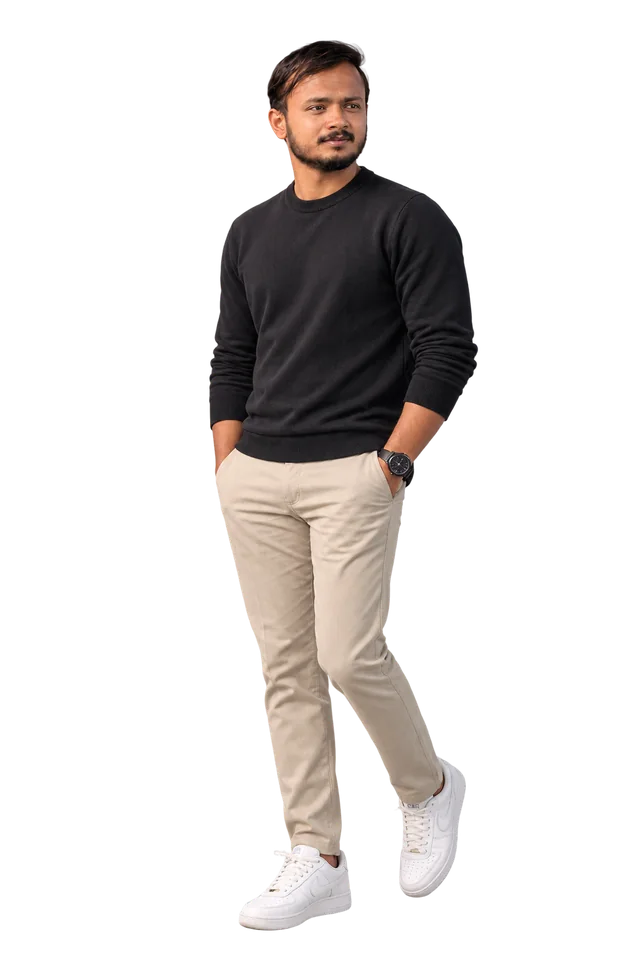
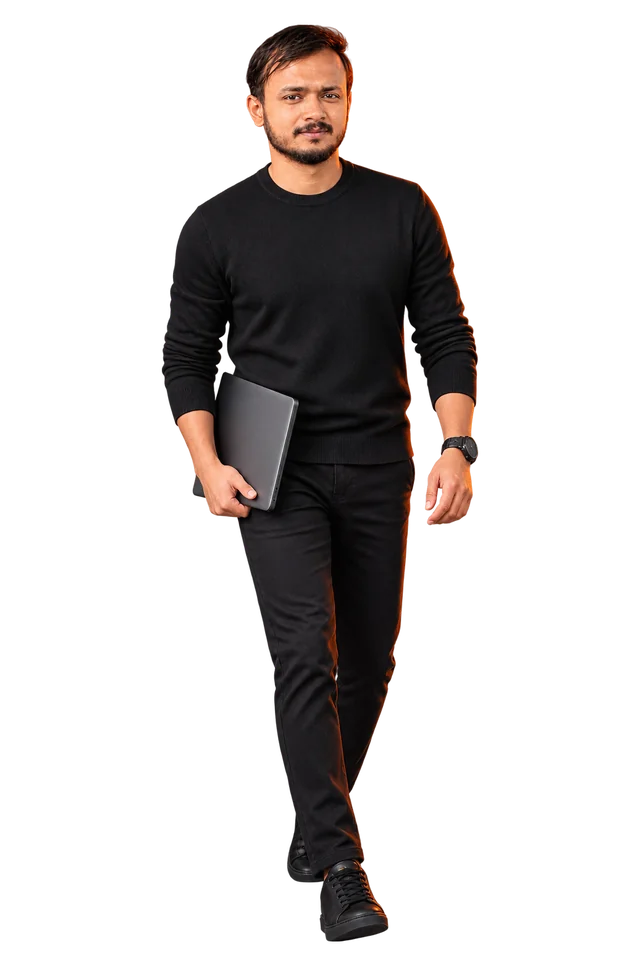
version7

Changed region(s): [[0.25, 0.0, 0.75, 1.0]]

diff --git a/style.css b/style.css
@@ -162,7 +162,7 @@ body::before {
   height: 86%; aspect-ratio: 2 / 3;
 }
 .portrait-img, .particles { position: absolute; inset: 0; width: 100%; height: 100%; }
-.portrait-img { object-fit: contain; object-position: bottom; filter: grayscale(1) contrast(1.08) brightness(.96); transition: opacity .8s var(--ease); }
+.portrait-img { object-fit: contain; object-position: bottom; transition: opacity .8s var(--ease); }
 .particles { opacity: 0; transition: opacity .6s; }
 .has-particles .particles { opacity: 1; }
 .has-particles .portrait-img { opacity: 0; }
@@ -226,8 +226,8 @@ body::before {
   background: radial-gradient(70% 50% at 50% 55%, rgba(255, 74, 28, .28), rgba(255, 74, 28, 0) 70%), var(--card);
   border: 1px solid var(--line); aspect-ratio: 3 / 4;
 }
-.about-photo img { position: absolute; inset: 4% 0 0; width: 100%; height: 100%; object-fit: cover; object-position: top; filter: grayscale(1) contrast(1.1); transition: transform 1.2s var(--ease), filter .8s; }
-.about-photo:hover img { transform: scale(1.04); filter: grayscale(.2) contrast(1.05); }
+.about-photo img { position: absolute; inset: 4% 0 0; width: 100%; height: 100%; object-fit: cover; object-position: top; transition: transform 1.2s var(--ease); }
+.about-photo:hover img { transform: scale(1.04); }
 .about-photo figcaption { position: absolute; left: 14px; right: 14px; bottom: 14px; padding: 14px 16px; border-radius: 16px; background: rgba(7, 7, 8, .72); backdrop-filter: blur(10px); font-size: .9rem; color: var(--text-2); }
 .about-photo figcaption em { font-family: var(--serif); font-size: 1.15rem; color: var(--ember); }
 
@@ -347,7 +347,8 @@ body::before {
 /* ---------- Experience ---------- */
 .exp { display: grid; grid-template-columns: minmax(0, .7fr) minmax(0, 1.3fr); gap: clamp(32px, 6vw, 96px); align-items: start; }
 .exp-photo { position: sticky; top: 110px; border-radius: 28px; overflow: hidden; aspect-ratio: 3 / 4; background: radial-gradient(70% 50% at 50% 60%, rgba(255, 74, 28, .22), transparent 70%), var(--card); border: 1px solid var(--line); }
-.exp-photo img { width: 100%; height: 108%; object-fit: cover; object-position: top; filter: grayscale(1) contrast(1.1); }
+.exp-photo img { width: 100%; height: 104%; object-fit: cover; object-position: top; transition: transform 1.2s var(--ease); }
+.exp-photo:hover img { transform: scale(1.03); }
 .exp-list { margin-top: 44px; border-top: 1px solid var(--line); }
 .exp-list li { display: grid; grid-template-columns: 170px 1fr; gap: 24px; padding: 28px 0; border-bottom: 1px solid var(--line); }
 .exp-when { font-family: var(--serif); font-style: italic; font-size: 1.25rem; color: var(--ember); line-height: 1.3; }
@@ -446,8 +447,8 @@ body::before {
 .avail { display: inline-flex; align-items: center; gap: 8px; padding: 6px 12px; border-radius: 999px; background: rgba(61, 220, 151, .1); color: var(--ok); font-weight: 650; }
 .clock { color: var(--muted); font-variant-numeric: tabular-nums; }
 .clock span { color: var(--text); font-weight: 650; }
-.contact-photo { width: 78%; margin: 14px auto 0; filter: grayscale(1) contrast(1.1); transition: filter .8s, transform 1s var(--ease); }
-.contact-card:hover .contact-photo { filter: grayscale(0) contrast(1.02); transform: scale(1.02); }
+.contact-photo { width: 78%; margin: 14px auto 0; transition: transform 1s var(--ease); }
+.contact-card:hover .contact-photo { transform: scale(1.03) rotate(-1deg); }
 .contact-facts { margin-top: auto; display: grid; grid-template-columns: repeat(3, 1fr); border-top: 1px solid var(--line); background: rgba(7, 7, 8, .6); backdrop-filter: blur(8px); }
 .contact-facts div { padding: 16px 18px; }
 .contact-facts div + div { border-left: 1px solid var(--line); }

diff --git a/index.html b/index.html
@@ -68,7 +68,7 @@
 
       <div class="portrait">
         <canvas class="particles" aria-hidden="true"></canvas>
-        <img class="portrait-img" src="assets/img/about.webp" alt="Pruthvi P R in a navy suit, hand on chin" width="720" height="1080" />
+        <img class="portrait-img" src="assets/img/about.webp" alt="Pruthvi P R in a black blazer, hand on chin" width="720" height="1080" />
       </div>
 
       <div class="hero-left">
@@ -126,7 +126,7 @@
       </div>
 
       <figure class="about-photo">
-        <img src="assets/img/approach.webp" alt="Pruthvi standing with arms crossed" width="640" height="960" loading="lazy" />
+        <img src="assets/img/approach.webp" alt="Pruthvi in a black overshirt, arms crossed" width="640" height="960" loading="lazy" />
         <figcaption><em>Looking for</em> an international team, on-site with visa sponsorship or remote.</figcaption>
       </figure>
     </section>
@@ -230,7 +230,7 @@
         </article>
 
         <!-- 2 -->
-        <!-- <article class="proj">
+        <article class="proj">
           <div class="proj-copy">
             <p class="proj-meta"><span>Client project at Provab</span><span>2025–26</span></p>
             <h3>Corporate portal with single sign-on</h3>
@@ -256,7 +256,7 @@
               <span class="sso-ok">Already signed in</span>
             </div>
           </div>
-        </article> -->
+        </article>
 
         <!-- 3 -->
         <article class="proj">
@@ -318,7 +318,7 @@
     <!-- ===== Experience ===== -->
     <section class="section exp" id="experience">
       <div class="exp-photo">
-        <img src="assets/img/experience.webp" alt="Pruthvi walking" width="640" height="960" loading="lazy" />
+        <img src="assets/img/experience.webp" alt="Pruthvi walking with a laptop" width="640" height="960" loading="lazy" />
       </div>
 
       <div class="exp-body">
@@ -412,12 +412,12 @@
                 <span class="link-text"><b>GitHub</b><small>Pruthvi-Dev1</small></span>
               </a>
             </li>
-            <!-- <li>
+            <li>
               <a class="link-card" href="tel:+918971683419">
                 <span class="link-icon"><svg viewBox="0 0 24 24"><path d="M5 4h4l2 5-2.5 1.5a11 11 0 0 0 5 5L15 13l5 2v4a2 2 0 0 1-2 2A16 16 0 0 1 3 6a2 2 0 0 1 2-2" /></svg></span>
                 <span class="link-text"><b>Phone</b><small>+91 89716 83419</small></span>
               </a>
-            </li> -->
+            </li>
           </ul>
         </div>
 
@@ -426,7 +426,7 @@
             <span class="avail"><span class="live-dot"></span>Available for new roles</span>
             <span class="clock"><span id="local-time">--:--</span> in Bengaluru</span>
           </div>
-          <img class="contact-photo" src="assets/img/standing.webp" alt="Pruthvi standing in an olive overshirt" width="640" height="960" loading="lazy" />
+          <img class="contact-photo" src="assets/img/standing.webp" alt="Pruthvi waving hello" width="640" height="960" loading="lazy" />
           <dl class="contact-facts">
             <div><dt>Role</dt><dd>Full-stack developer</dd></div>
             <div><dt>Open to</dt><dd>Relocation or remote</dd></div>

diff --git a/index.js b/index.js
@@ -188,9 +188,11 @@
           const i = (y * W + x) * 4;
           const a = data[i + 3];
           if (a < 120) continue;
-          let lum = (0.3 * data[i] + 0.59 * data[i + 1] + 0.11 * data[i + 2]) / 255;
-          lum = Math.min(1, Math.pow(lum, 0.85) * 1.12);
-          if (lum < 0.06) continue;
+          const R0 = data[i], G0 = data[i + 1], B0 = data[i + 2];
+          let lum = (0.3 * R0 + 0.59 * G0 + 0.11 * B0) / 255;
+          // lift the shadows so black clothing still shows as dim particles
+          lum = Math.min(1, 0.1 + Math.pow(lum, 0.75));
+          const isRim = R0 > 150 && G0 < R0 * 0.56 && B0 < R0 * 0.36; // saturated orange rim light, not skin
           const angle = Math.random() * Math.PI * 2;
           const dist = 200 + Math.random() * Math.max(W, H);
           particles.push({
@@ -198,21 +200,22 @@
             x: W / 2 + Math.cos(angle) * dist, y: H / 2 + Math.sin(angle) * dist,
             vx: 0, vy: 0,
             s: step * (0.45 + lum * 0.5),
-            b: Math.min(7, Math.floor(lum * 8)),
+            b: isRim ? 8 : Math.min(7, Math.floor(lum * 8)),
             d: 0.028 + Math.random() * 0.04,
           });
         }
       }
       // group by brightness so each colour is set once per frame
-      buckets = Array.from({ length: 8 }, () => []);
+      buckets = Array.from({ length: 9 }, () => []);
       particles.forEach((p) => buckets[p.b].push(p));
       return true;
     }
 
     const shades = Array.from({ length: 8 }, (_, i) => {
-      const v = Math.round(60 + (i / 7) * 195);
+      const v = Math.round(48 + (i / 7) * 207);
       return `rgb(${v},${Math.round(v * 0.985)},${Math.round(v * 0.96)})`;
     });
+    shades.push('#FF6A3D'); // rim-light particles glow ember
 
     let settledFrames = 0;
     function frame() {
@@ -220,7 +223,7 @@
       ctx.clearRect(0, 0, W, H);
       let moving = 0;
       const R = 90, R2 = R * R;
-      for (let b = 0; b < 8; b++) {
+      for (let b = 0; b < 9; b++) {
         ctx.fillStyle = shades[b];
         const list = buckets[b];
         for (let k = 0; k < list.length; k++) {

diff --git a/README.md b/README.md
@@ -40,7 +40,7 @@ assets/
 ## Editing
 
 - Résumé: replace `assets/Pruthvi_PR_Resume.pdf` with a file of the same name.
-- Hero photo: replace `assets/img/about.webp` (transparent background, 2:3).
+- Photos: `assets/img/about.webp` (hero), `approach.webp` (About), `experience.webp` (Experience), `standing.webp` (Contact). Transparent WebP, 2:3. Replace with the same names.
 - Colours: change `--ember` and the other variables at the top of `style.css`.
 
 ## Deploy
